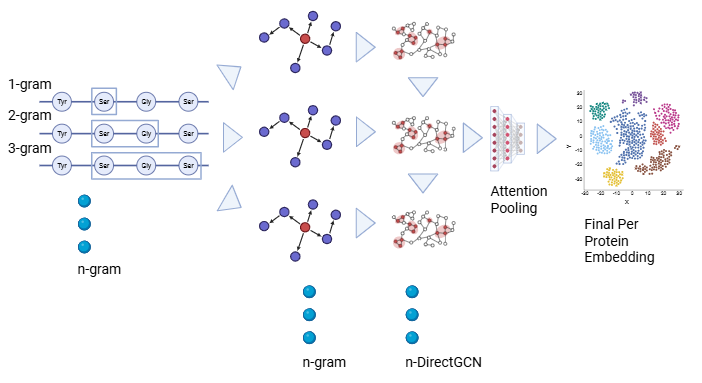
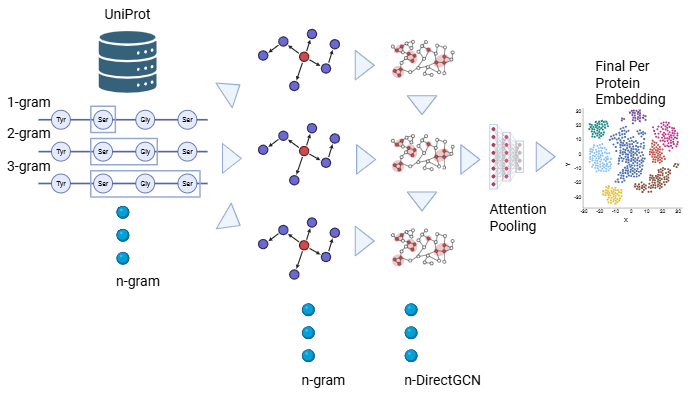
Update 3 8-28-25
bug fixes

diff --git a/source/trainers/word2vec.py b/source/trainers/word2vec.py
@@ -5,8 +5,9 @@
 # AUTHOR: Islam Ebeid
 # ==============================================================================
 
-import gc
 import os
+import gc
+from multiprocessing import Pool
 import time # noqa
 from typing import Dict, Optional, List
 
@@ -19,6 +20,27 @@ from source.utils.data.data_utils import DataUtils
 from source.utils.data.fasta_utils import FastaUtils
 from source.utils.fs.file_utils import FileUtils
 from source.utils.post.embedding_processor import EmbeddingProcessor
+import tempfile
+
+
+def _process_fasta_chunk_for_corpus(chunk: List[str]) -> List[str]:
+    """
+    A helper function designed to be run in a separate process. It parses a
+    chunk of a FASTA file (as a list of lines) and returns the sequences as
+    space-separated strings.
+    """
+    processed_lines = []
+    current_sequence = []
+    for line in chunk:
+        if line.startswith('>'):
+            if current_sequence:
+                processed_lines.append(" ".join("".join(current_sequence)))
+                current_sequence = []
+        else:
+            current_sequence.append(line.strip())
+    if current_sequence:
+        processed_lines.append(" ".join("".join(current_sequence)))
+    return processed_lines
 
 
 class Word2VecEmbedder:
@@ -34,47 +56,75 @@ class Word2VecEmbedder:
         self.config.RESULTS_W2V_EMBEDDINGS_DIR.mkdir(parents=True, exist_ok=True)
 
         fasta_paths = self.config.SEQUENCE_FILE_PATHS
-        if not fasta_paths:
-            print("ERROR: No FASTA files configured for Word2Vec.")
+        if not fasta_paths or not fasta_paths[0].exists(): # noqa
+            print("ERROR: No FASTA files configured or found for Word2Vec.")
             return None
 
-        fasta_files = [str(p) for p in fasta_paths]
-        corpus = FastaUtils.FastaCorpus(fasta_files)
+        # --- DEFINITIVE FIX for Performance: Use gensim's optimized corpus_file method ---
+        # The previous method of iterating through sequences in Python was a major bottleneck.
+        # This new approach first converts the FASTA file into a line-by-line sentence corpus,
+        # which allows gensim's highly optimized C routines to handle the file reading,
+        # dramatically improving performance and reducing memory overhead.
+        with tempfile.NamedTemporaryFile(mode='w+', delete=False, suffix=".txt", encoding='utf-8') as temp_corpus_file: # noqa
+            corpus_path = temp_corpus_file.name # noqa
+            print(f"  Creating temporary line corpus at: {corpus_path}")
 
-        w2v_model = self._train_w2v_model(corpus)
-        protein_embeddings = self._generate_protein_embeddings(w2v_model, fasta_files)
+            # Read the large FASTA file in chunks and process in parallel
+            chunk_size = 100000  # Number of lines per chunk
+            with open(fasta_paths[0], 'r') as f_in, Pool(processes=self.config.W2V_WORKERS) as pool:
+                # Create a generator for chunks
+                def chunk_generator():
+                    while True:
+                        chunk = f_in.readlines(chunk_size)
+                        if not chunk:
+                            break
+                        yield chunk
+
+                # Process chunks in parallel and write to the temp file
+                for processed_lines in tqdm(pool.imap(_process_fasta_chunk_for_corpus, chunk_generator()), desc="  Writing line corpus (parallel)"):
+                    for line in processed_lines:
+                        temp_corpus_file.write(line + "\n")
+
+            # Now, train the model using the optimized file path
+            w2v_model = self._train_w2v_model(corpus_path)
+
+        # Cleanup the temporary file
+        os.remove(corpus_path)
+        print(f"  Cleaned up temporary corpus file.")
+
+        protein_embeddings = self._generate_protein_embeddings(w2v_model, fasta_paths)
 
         # --- REFACTOR: Use a dedicated helper to save embeddings and handle PCA ---
         # This makes the logic consistent with the ProtGram-XGCN trainer.
         output_paths = self._save_embeddings_and_apply_pca(protein_embeddings)
 
-        del w2v_model, corpus, protein_embeddings
+        del w2v_model, protein_embeddings
         gc.collect()
 
         DataUtils.print_header("Word2Vec Embedding PIPELINE STEP FINISHED")
         return output_paths
 
-    def _train_w2v_model(self, corpus: FastaUtils.FastaCorpus) -> Word2Vec:
+    def _train_w2v_model(self, corpus_path: str) -> Word2Vec:
         """Trains the Word2Vec model on the provided corpus."""
         DataUtils.print_header("Step 2: Training Word2Vec Model")
         print(
             f"  Training Word2Vec model (vector_size={self.config.W2V_VECTOR_SIZE}, window={self.config.W2V_WINDOW}, epochs={self.config.W2V_EPOCHS})...")
         model_train_start_time = time.time()
         w2v_model = Word2Vec(
-            corpus, vector_size=self.config.W2V_VECTOR_SIZE, window=self.config.W2V_WINDOW,
+            corpus_file=corpus_path, vector_size=self.config.W2V_VECTOR_SIZE, window=self.config.W2V_WINDOW,
             min_count=self.config.W2V_MIN_COUNT, epochs=self.config.W2V_EPOCHS,
             workers=self.config.W2V_WORKERS, sg=1, hs=0, negative=5, seed=self.config.RANDOM_STATE
         )
         print(f"  Word2Vec model training finished in {time.time() - model_train_start_time:.2f}s.")
         return w2v_model
 
-    def _generate_protein_embeddings(self, w2v_model: Word2Vec, fasta_files: List[str]) -> Dict[str, np.ndarray]:
+    def _generate_protein_embeddings(self, w2v_model: Word2Vec, fasta_paths: List[Path]) -> Dict[str, np.ndarray]:
         """Generates per-protein embeddings using the trained Word2Vec model."""
         DataUtils.print_header("Step 3: Generating Per-Protein Embeddings using Word2Vec")
         protein_embeddings: Dict[str, np.ndarray] = {}
         # Use the generator directly to avoid loading all sequences into memory
         sequences_for_embedding = FastaUtils.parse_sequences(
-            fasta_files,
+            fasta_paths,
             perform_cleaning=self.config.PROTGRAM_CLEAN_FASTA_ON_PARSE,
             min_len=self.config.PROTGRAM_FASTA_MIN_LEN,
             max_len=self.config.PROTGRAM_FASTA_MAX_LEN,

diff --git a/source/utils/data/id_mapper.py b/source/utils/data/id_mapper.py
@@ -7,6 +7,7 @@
 
 import gc
 import logging
+from multiprocessing import Pool
 from pathlib import Path
 from typing import Dict, Mapping, Optional, Any
 
@@ -19,6 +20,25 @@ from tqdm.auto import tqdm
 from configuration.config import Config
 from source.utils.data.fasta_utils import FastaUtils
 from source.utils.fs.file_utils import FileUtils
+
+
+def _parse_fasta_for_regex_map(fasta_path: Path) -> Dict[str, str]:
+    """
+    Helper function to be run in a parallel process. Parses a single FASTA file
+    and extracts ID mappings using regex.
+    """
+    local_id_map = {}
+    try:
+        for record in SeqIO.parse(fasta_path, "fasta"):
+            canonical_id = FastaUtils.extract_id_from_header(record.description)
+            if canonical_id:
+                local_id_map[record.id] = canonical_id
+                first_word = record.description.split()[0]
+                if first_word != record.id:
+                    local_id_map[first_word] = canonical_id
+    except Exception as e:
+        print(f"An error occurred during parallel regex mapping on {fasta_path}: {e}")
+    return local_id_map
 
 
 class IDMapper:
@@ -150,21 +170,21 @@ class IDMapper:
 
     def _generate_from_regex(self) -> Dict[str, str]:
         """Performs ID mapping by parsing FASTA headers with regular expressions."""
-        fasta_files = self.config.SEQUENCE_FILE_PATHS
-        if not fasta_files: return {}
+        fasta_paths = self.config.SEQUENCE_FILE_PATHS
+        if not fasta_paths: return {}
 
-        print(f"  Starting Regex ID mapping for: {[p.name for p in fasta_files]}...")
+        print(f"  Starting Regex ID mapping for: {[p.name for p in fasta_paths]}...")
         id_map = {}
-        for fasta_file in fasta_files:
-            try:
-                for record in tqdm(SeqIO.parse(fasta_file, "fasta"), desc=f"Parsing {fasta_file.name} with Regex", leave=False):
-                    canonical_id = FastaUtils.extract_id_from_header(record.description)
-                    if canonical_id:
-                        id_map[record.id] = canonical_id
-                        first_word = record.description.split()[0]
-                        if first_word != record.id:
-                            id_map[first_word] = canonical_id
-            except Exception as e:
-                print(f"An error during regex mapping on {fasta_file}: {e}")
+
+        # --- DEFINITIVE FIX for Performance: Parallelize FASTA parsing for Regex mode ---
+        # This avoids a bottleneck if the regex mode is ever used on very large files.
+        num_workers = self.config.GRAPH_BUILDER_WORKERS
+        with Pool(processes=num_workers) as pool:
+            results = list(tqdm(pool.imap(_parse_fasta_for_regex_map, fasta_paths),
+                                total=len(fasta_paths), desc="  Parsing FASTA for Regex Map (parallel)"))
+
+        for partial_map in results:
+            id_map.update(partial_map)
+
         print(f"  Regex mapping complete. Found {len(id_map)} potential mappings.")
         return id_map

diff --git a/source/utils/data/data_utils.py b/source/utils/data/data_utils.py
@@ -16,6 +16,11 @@ import numpy as np
 import pandas as pd
 import psutil
 import torch
+# --- DEFINITIVE FIX for Singleton Evaluation: Add networkx and community for robust community detection ---
+import networkx as nx
+from torch_geometric.data import Data
+from torch_geometric.utils import to_networkx
+import community as community_louvain
 
 
 # ==============================================================================
@@ -129,3 +134,43 @@ class DataUtils:
             print("!" * 80 + "\n")
             return False
         return True
+
+    @staticmethod
+    def generate_community_labels(graph_obj: 'DirectedNgramGraph') -> Tuple[Optional[torch.Tensor], int]:
+        """
+        Generates community detection labels using the Louvain method, robustly
+        handling disconnected graphs by processing each connected component.
+        """
+        print("    Generating community labels for all connected components...")
+        if graph_obj.number_of_nodes == 0:
+            return None, 0
+
+        # Convert the sparse adjacency matrix to a NetworkX graph
+        # This is the most reliable way to handle graph structures for community detection.
+        pyg_data = Data(edge_index=graph_obj.A_undirected_norm_sparse.indices(), num_nodes=graph_obj.number_of_nodes)
+        G = to_networkx(pyg_data, to_undirected=True)
+
+        labels = torch.zeros(graph_obj.number_of_nodes, dtype=torch.long)
+        community_offset = 0
+
+        # Find all connected components
+        connected_components = list(nx.connected_components(G))
+        print(f"      Found {len(connected_components)} connected components.")
+
+        # Run community detection on each component
+        for component_nodes in connected_components:
+            subgraph = G.subgraph(component_nodes)
+            if subgraph.number_of_nodes() > 1:
+                # best_partition returns a dict {node: community_id}
+                partition = community_louvain.best_partition(subgraph)
+                max_local_community = 0
+                for node, community_id in partition.items():
+                    labels[node] = community_id + community_offset
+                    if community_id > max_local_community:
+                        max_local_community = community_id
+                # Ensure the next component's communities start with a new ID
+                community_offset += (max_local_community + 1)
+
+        num_classes = community_offset if community_offset > 0 else 1
+        print(f"      Found {num_classes} communities across all components.")
+        return labels, num_classes

diff --git a/source/models/gnn/spectral/directgcn.py b/source/models/gnn/spectral/directgcn.py
@@ -1,7 +1,7 @@
 # ==============================================================================
 # MODULE: models/gnn/spectral/directgcn.py
 # PURPOSE: Contains the PyTorch class definitions for the custom GCN model.
-# VERSION: 10.0 (Correctly implements conditional homophily/heterophily paths)
+# VERSION: 10.1 (Corrected typo in forward pass)
 # AUTHOR: Islam Ebeid (Refactored by Gemini Code Assist)
 # ==============================================================================
 
@@ -319,8 +319,8 @@ class DirectGCN(nn.Module):
             # The previous implementation had the activation and dropout outside the loop,
             # and did not update the hidden state `h` in each iteration.
             for i, conv in enumerate(self.convs):
-                h_pre_act = conv(h, data) + self.res_projsi
-                h_norm = self.layer_normsi
+                h_pre_act = conv(h, data) + self.res_projs[i](h)
+                h_norm = self.layer_norms[i](h_pre_act)
                 h = F.leaky_relu(h_norm)
                 h = F.dropout(h, p=self.dropout_rate, training=self.training)
 

diff --git a/source/trainers/singleton_xgcn.py b/source/trainers/singleton_xgcn.py
@@ -50,7 +50,14 @@ class SingletonXGCNTrainer:
             return pd.DataFrame()  # All code after this in this block is unreachable if this triggers
 
         task_type = self.config.PROTGRAM_TASK_TYPES_PER_LEVEL.get(1, self.config.PROTGRAM_DEFAULT_TASK_TYPE)
-        labels, num_classes = self.label_generator.generate_task_labels(self.graph, task_type)
+
+        # --- DEFINITIVE FIX for Singleton Evaluation: Use component-aware community detection ---
+        # The original label generator might only find communities in the largest connected component.
+        # This new logic ensures that for the 'community' task, we generate labels for all nodes.
+        if task_type == 'community':
+            labels, num_classes = DataUtils.generate_community_labels(self.graph)
+        else:
+            labels, num_classes = self.label_generator.generate_task_labels(self.graph, task_type)
 
         # --- DEFINITIVE FIX for "Zero Results" on Small/Simple Graphs ---
         # This guard is the reason the subsequent code may appear "unreachable".
